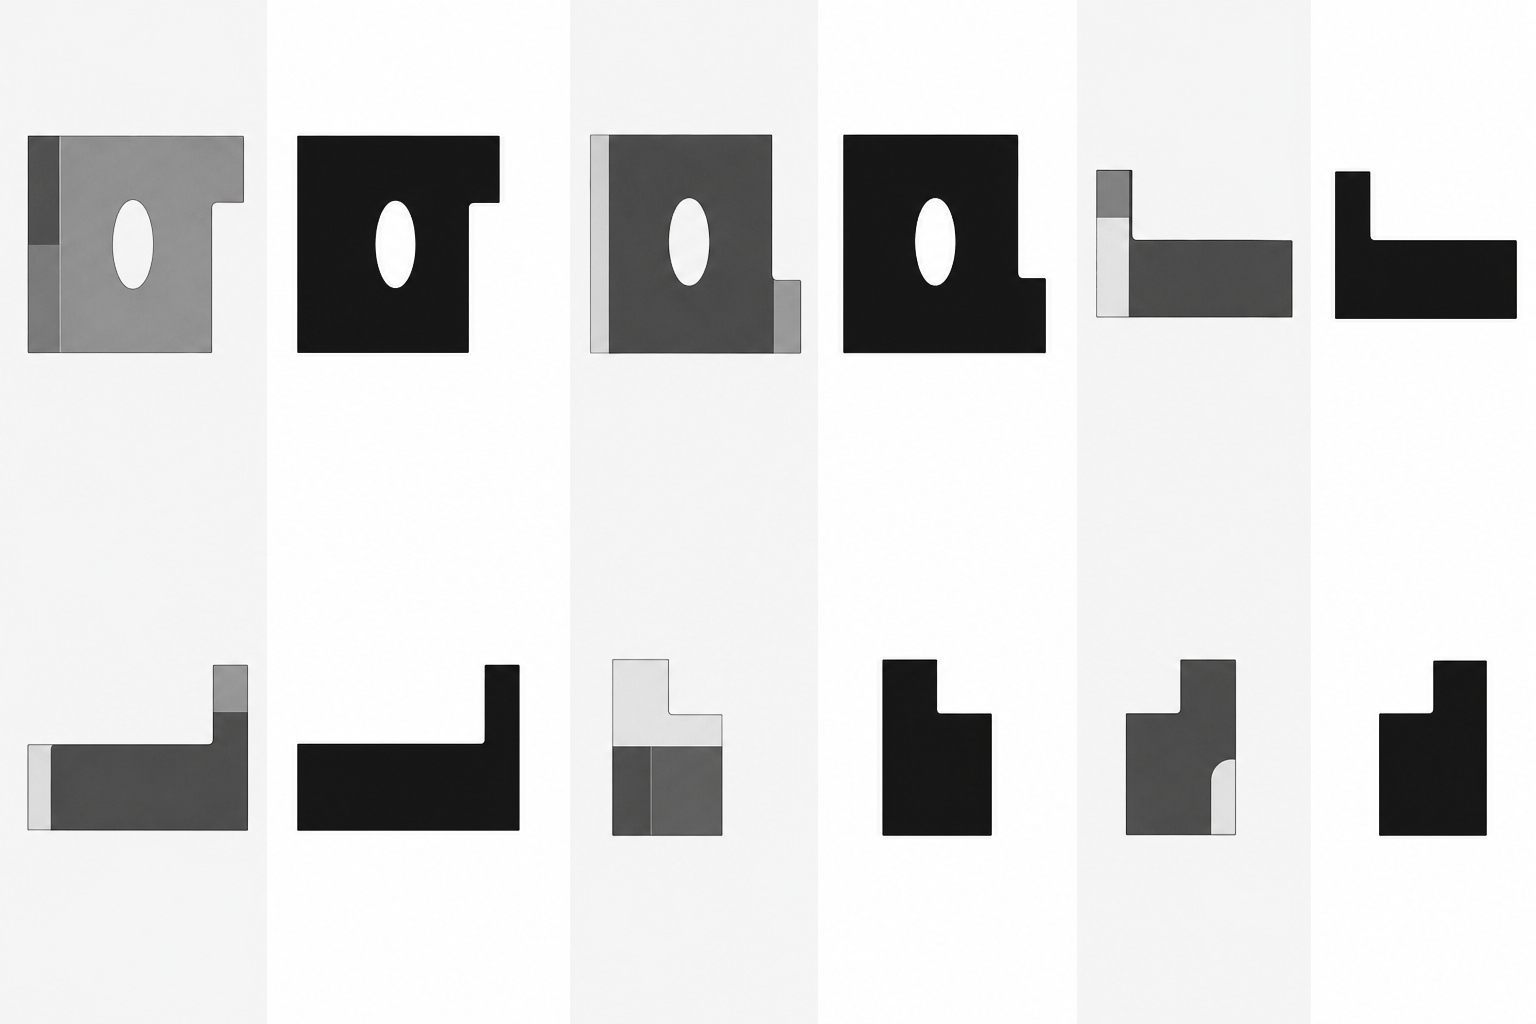
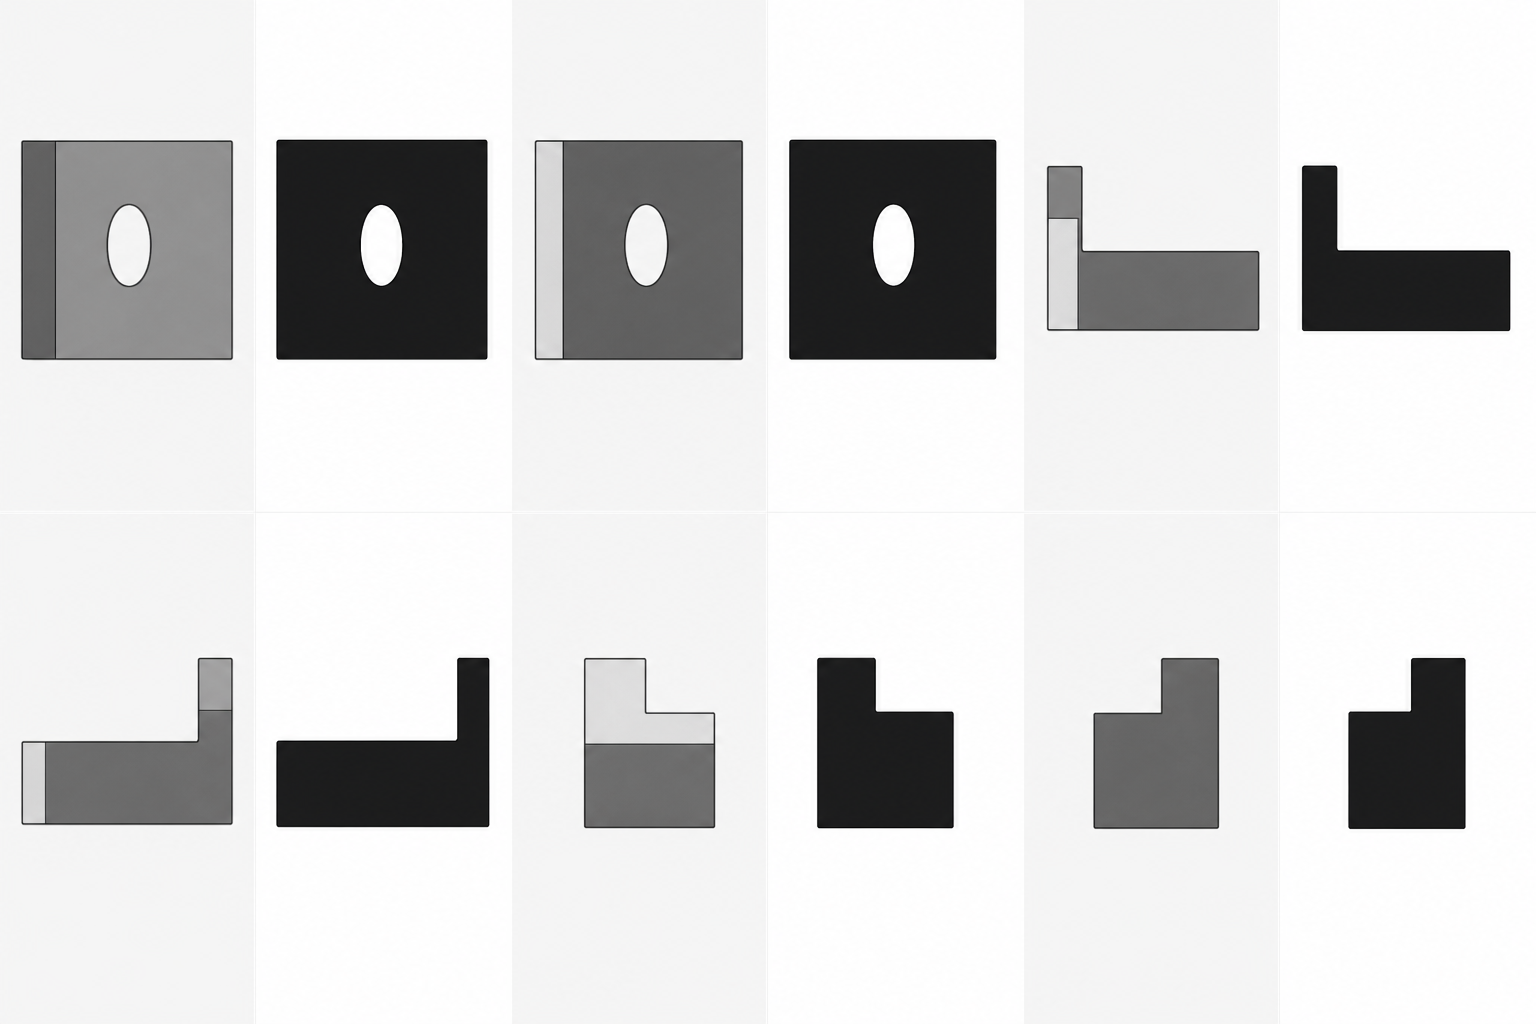
synth-clean: design-intent prompt distinguishes noise gaps from real holes
Rewrites CLEANUP_PROMPT so gpt-image-2 reasons like a CAD draftsperson:
infer + fill noise gaps (irregular blobs, gaps without a matching opposite
view, asymmetric splotches) but preserve real through-holes (clean circular
or slot-shaped openings that appear in BOTH matching opposite views and
respect the part's symmetry plane). Cleaned views regenerated for the 4
test samples - 117514's noise patches are now inferred shut, while its
hanging slot and top bore stay intact in every relevant view.

Made-with: Cursor

diff --git a/scripts/synthesize_clean_views.py b/scripts/synthesize_clean_views.py
@@ -186,35 +186,57 @@ def render_clean_input_grid(stl_path: Path, out_path: Path) -> dict:
 # OpenAI gpt-image-2 cleanup
 # ---------------------------------------------------------------------------
 
-CLEANUP_PROMPT = """This is a 6-view orthographic engineering blueprint of one mechanical CAD part.
+CLEANUP_PROMPT = """This is a 6-view orthographic engineering blueprint of one mechanical CAD part,
+reverse-engineered from a noisy 3D point-cloud scan. Your job is to think like a
+CAD designer and INFER the part's intended shape, then redraw the views as if
+they came from the original CAD model rather than from a noisy scan.
 
-Layout (do NOT change): a 3 columns x 2 rows grid of six views in this order
-- top row, left to right:    Top, Bottom, Front
+LAYOUT (do NOT change): a 3 columns x 2 rows grid of six views in this order
+- top row, left to right:     Top, Bottom, Front
 - bottom row, left to right:  Back, Right, Left
 Each cell is split into two halves:
 - LEFT half:  grayscale depth render (darker = nearer to camera)
 - RIGHT half: black-on-white silhouette mask of the same view
 
-Your job is to clean up the views as if a CAD draftsperson were polishing
-them for publication:
+Your most important job is to DISTINGUISH two kinds of gap that look similar
+in the raw views but mean very different things:
 
-1. Make every silhouette outline crisp, axis-aligned where appropriate, and
-   continuous. Remove ragged speckle and small noise pinholes ALONG THE OUTER
-   BOUNDARY only.
-2. Fill small unintentional surface gaps (tiny isolated white pixels) inside
-   the dark silhouette. These are reconstruction noise, not real openings.
-3. CRITICAL: PRESERVE every dark hole, slot, or cutout in the depth view AND
-   every white island larger than ~12 px in diameter inside the dark silhouette.
-   Those are real CAD through-holes. NEVER fill them. NEVER bridge across them.
-   When in doubt, leave a feature alone.
-4. PRESERVE the rough symmetry of the part. If a hole appears in one view it
-   should remain in the matching opposing view.
-5. KEEP THE SAME 3x2 LAYOUT and the same 6 views in the same positions. KEEP
-   the depth-then-silhouette internal split of each cell. Do not add labels,
-   borders, dimensions, captions, decorative elements, perspective, shading
-   or color outside grayscale.
-6. The output should look like a clean CAD orthographic drawing set, not a
-   reinterpretation. No extra geometry. No artistic license."""
+(A) NOISE GAPS - these are RECONSTRUCTION ARTIFACTS, infer the missing shape:
+    - small, irregularly-shaped white blobs INSIDE the dark silhouette
+    - ragged or scalloped patches along the silhouette boundary
+    - holes that DO NOT appear in the matching opposite view
+      (a real Top hole would also show up in Bottom; a real Front hole would
+      also show up in Back)
+    - holes that break the part's axis-aligned / mirrored symmetry
+    - depth-view splotches that don't correspond to a clean circle/slot
+    => INFER what the surface should look like and CLOSE these gaps.
+       Fill them with the same dark silhouette color. Reconstruct the
+       surface based on the surrounding geometry and the part's symmetry.
+
+(B) REAL DESIGN FEATURES - PRESERVE these, never fill them:
+    - clean, regular circular or slot-shaped openings
+    - holes that DO appear in the matching opposite view at the same
+      location (genuine through-bores show up in BOTH Front+Back, or
+      BOTH Left+Right, or BOTH Top+Bottom)
+    - dark concentric rings in a depth view that indicate a counterbore
+      or through-hole going down the view axis
+    - features that respect the part's symmetry plane
+
+When you redraw each silhouette:
+- Make every outer boundary crisp, axis-aligned where appropriate, and
+  continuous. Reconstruct straight edges as straight, curved edges as smooth.
+- Use the part's symmetry to repair one view from its mirrored counterpart
+  (Front <-> Back, Left <-> Right, Top <-> Bottom).
+- Use the depth view to validate the silhouette: if the depth view shows a
+  clean filled face, the silhouette must be solid; if the depth view shows
+  a clean dark circle, the silhouette must have a matching white circle.
+- The cleaned silhouette should look like a CAD drawing, not a scan.
+
+KEEP the same 3x2 LAYOUT and the same 6 views in the same positions. KEEP the
+depth-then-silhouette internal split of each cell. Use grayscale only. Do NOT
+add labels, captions, dimensions, borders, arrows, perspective, shading or
+artistic flourishes. No extra geometry, no decoration. The result should look
+like a clean engineering orthographic set."""
 
 
 def _png_b64_to_bytes(b64: str) -> bytes:
